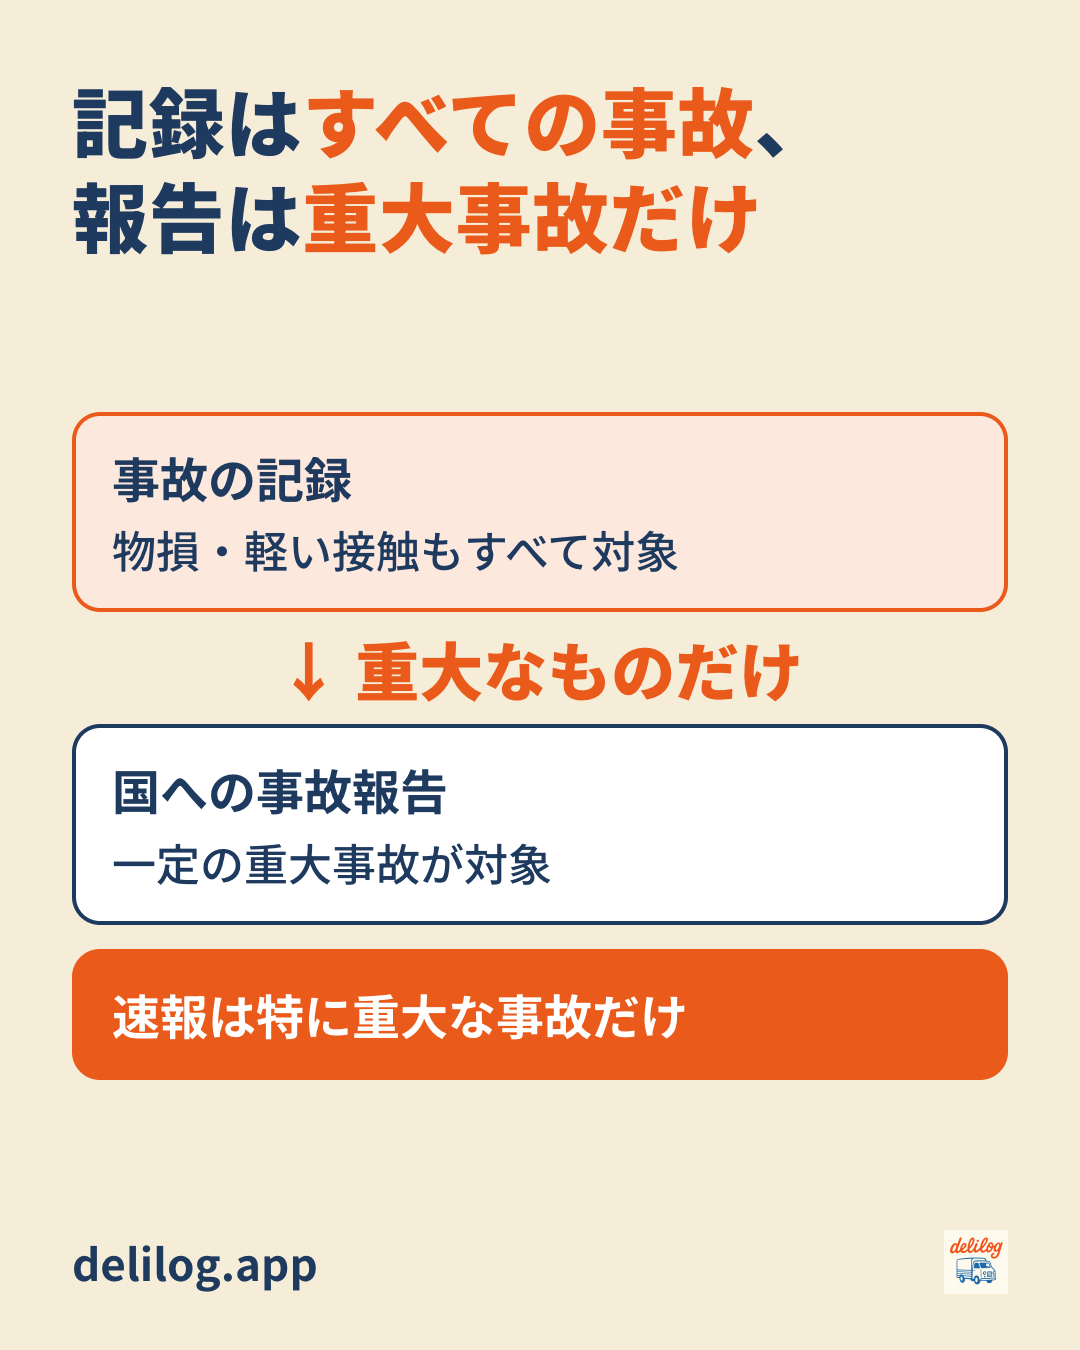
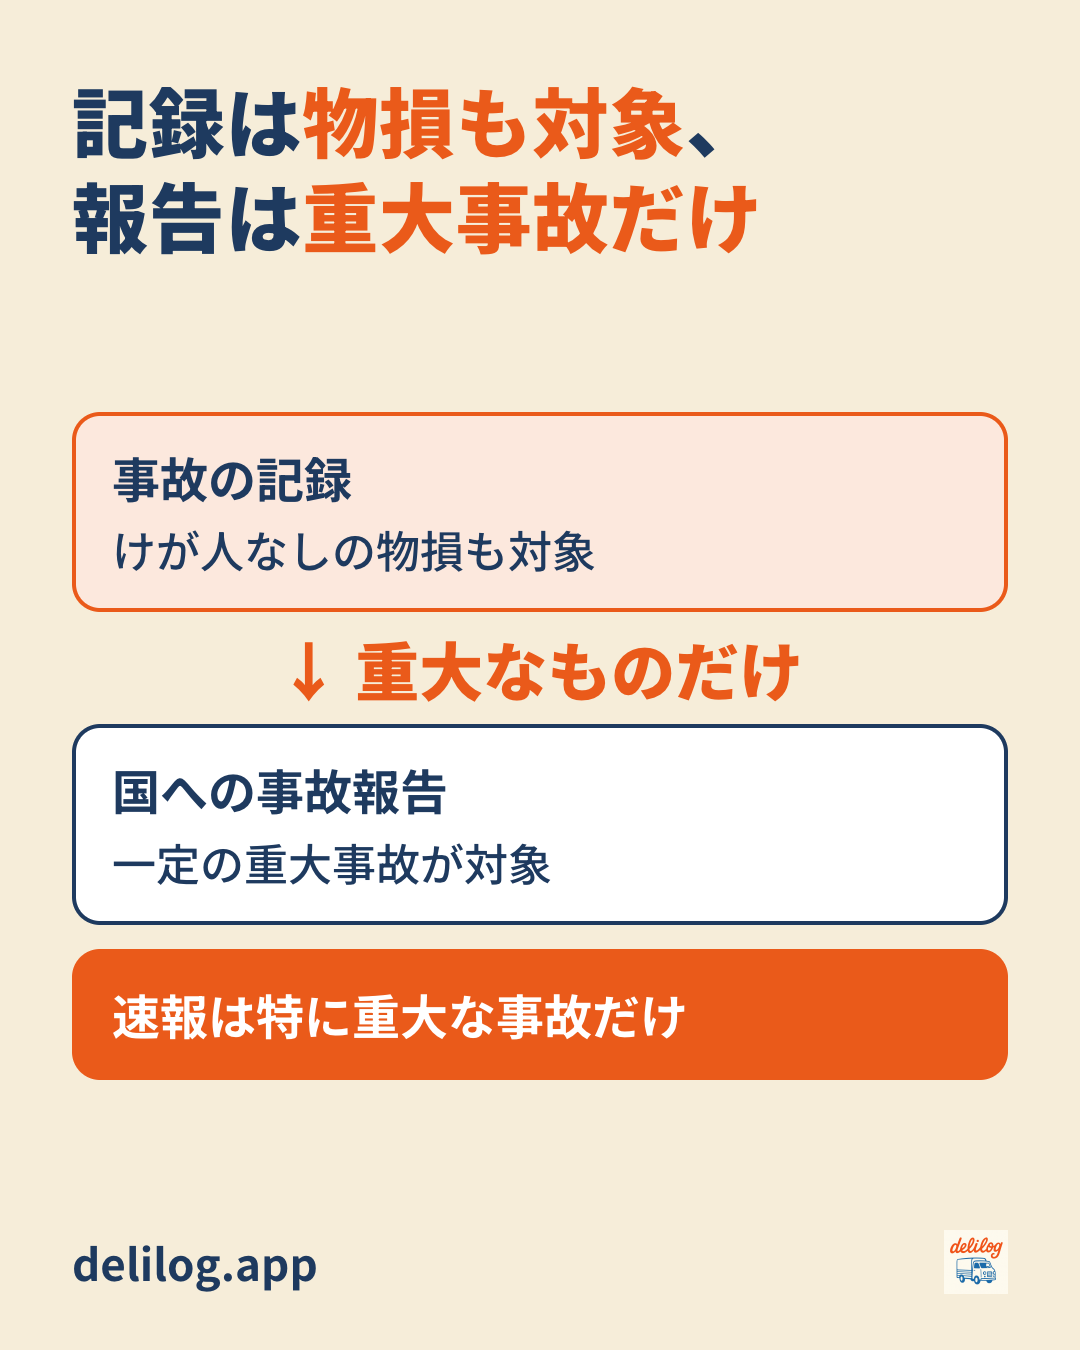
feat(blog): T5 jiko-houkokusho-template 最終レビュー

Changed region(s): [[0.0917, 0.3733, 0.6417, 0.4356], [0.275, 0.0622, 0.7333, 0.1244]]

diff --git a/content/figures/jiko-houkokusho-template/scope.html b/content/figures/jiko-houkokusho-template/scope.html
@@ -1,6 +1,6 @@
-<h1 class="fig-title">記録は<em>すべての事故</em>、<br>報告は<em>重大事故だけ</em></h1>
+<h1 class="fig-title">記録は<em>物損も対象</em>、<br>報告は<em>重大事故だけ</em></h1>
 <div class="fig-body">
-  <div class="fig-card is-accent" data-item>事故の記録<small>物損・軽い接触もすべて対象</small></div>
+  <div class="fig-card is-accent" data-item>事故の記録<small>けが人なしの物損も対象</small></div>
   <div class="fig-arrow">↓ 重大なものだけ</div>
   <div class="fig-card" data-item>国への事故報告<small>一定の重大事故が対象</small></div>
   <div class="fig-card is-strong" data-item>速報は特に重大な事故だけ</div>

diff --git a/docs/plans/blog-jiko-houkokusho-template.md b/docs/plans/blog-jiko-houkokusho-template.md
@@ -23,7 +23,7 @@ WORKTREE: /Users/narajunichi/delilog-website/.claude/worktrees/blog-jiko-houkoku
 - [x] T2: プロダクト整合性 — 04-consistency.md
 - [x] T3: 執筆 — content/blog/jiko-houkokusho-template.md。blog:stats が OK
 - [x] T4: 図と OG — content/figures/jiko-houkokusho-template/。blog:figures が OK
-- [ ] T5: 最終レビュー — 06-review.md。5つの検証コマンドがすべて OK、スマホのスクショを目で確認
+- [x] T5: 最終レビュー — 06-review.md。5つの検証コマンドがすべて OK、スマホのスクショを目で確認
 - [ ] T6: 公開準備 — 配布 PDF・Excel の欄外に1行＋QR（template_jiko、Excel はリンク）、相互リンクと BLOG_BACKLOG の更新、keikamotsu-anzentaisaku-2025 の 4-4 の修正、blog/jiko-houkokusho-template を push、プレビュー URL を取得
 
 ## 実行ログ
@@ -34,6 +34,7 @@ WORKTREE: /Users/narajunichi/delilog-website/.claude/worktrees/blog-jiko-houkoku
 | T2 | (このコミット) | 不整合3件（検索機能・クラウド表現・プラン表記）を構成書で修正。03 の判定11か所を反映 |
 | T3 | (このコミット) | 本文 5,079字・CTA 2枚。FAQ は5問（構成書は4問。Q5「相手方が不明なとき」は T5 で事実確認） |
 | T4 | (このコミット) | scope・items8・OG。最小文字 44px。items8 は8項目すべてを表示する形に修正 |
+| T5 | (このコミット) | reviewer が5件修正（章番号・図1の文言・FAQ Q3/Q5・第4章）。国交省様式例 xlsx を直接照合し記載例の要約が一致。FAQ Q3 に「原因究明結果待ち」を追加。5検証すべて OK、スマホ全ページを目視 |
 
 ## 失敗カウンタ
 
@@ -46,4 +47,6 @@ WORKTREE: /Users/narajunichi/delilog-website/.claude/worktrees/blog-jiko-houkoku
 - 書き換え: 30日以内は「通達で」と明示、発生場所は番地まで書く形（地図添付でも可・M047）、行政処分は「対象になり得る」まで（日車数・罰金は書かない）、国への報告は「一定の重大事故（速報は特に重大なもの）」
 - misconceptions: M046・M047 を追記。M040 の条文根拠を訂正（第8条第1項第9号の括弧書きは「第九条の二及び第九条の五第一項」）。ユーザー手元の M040 は旧版のまま
 
+- 国交省様式例 xlsx は照合済み（記載例の要約は一致）。配布 xlsx も8項目そろっている
+- 行政処分の適用範囲（別表が軽貨物にそのまま適用されるか）は未確認のため「対象になり得る」まで
 - ぶつかりうるファイル（予定）: content/blog/keikamotsu-anzentaisaku-2025.md（ユーザーの未コミット変更あり）、.claude/knowledge/misconceptions.md
